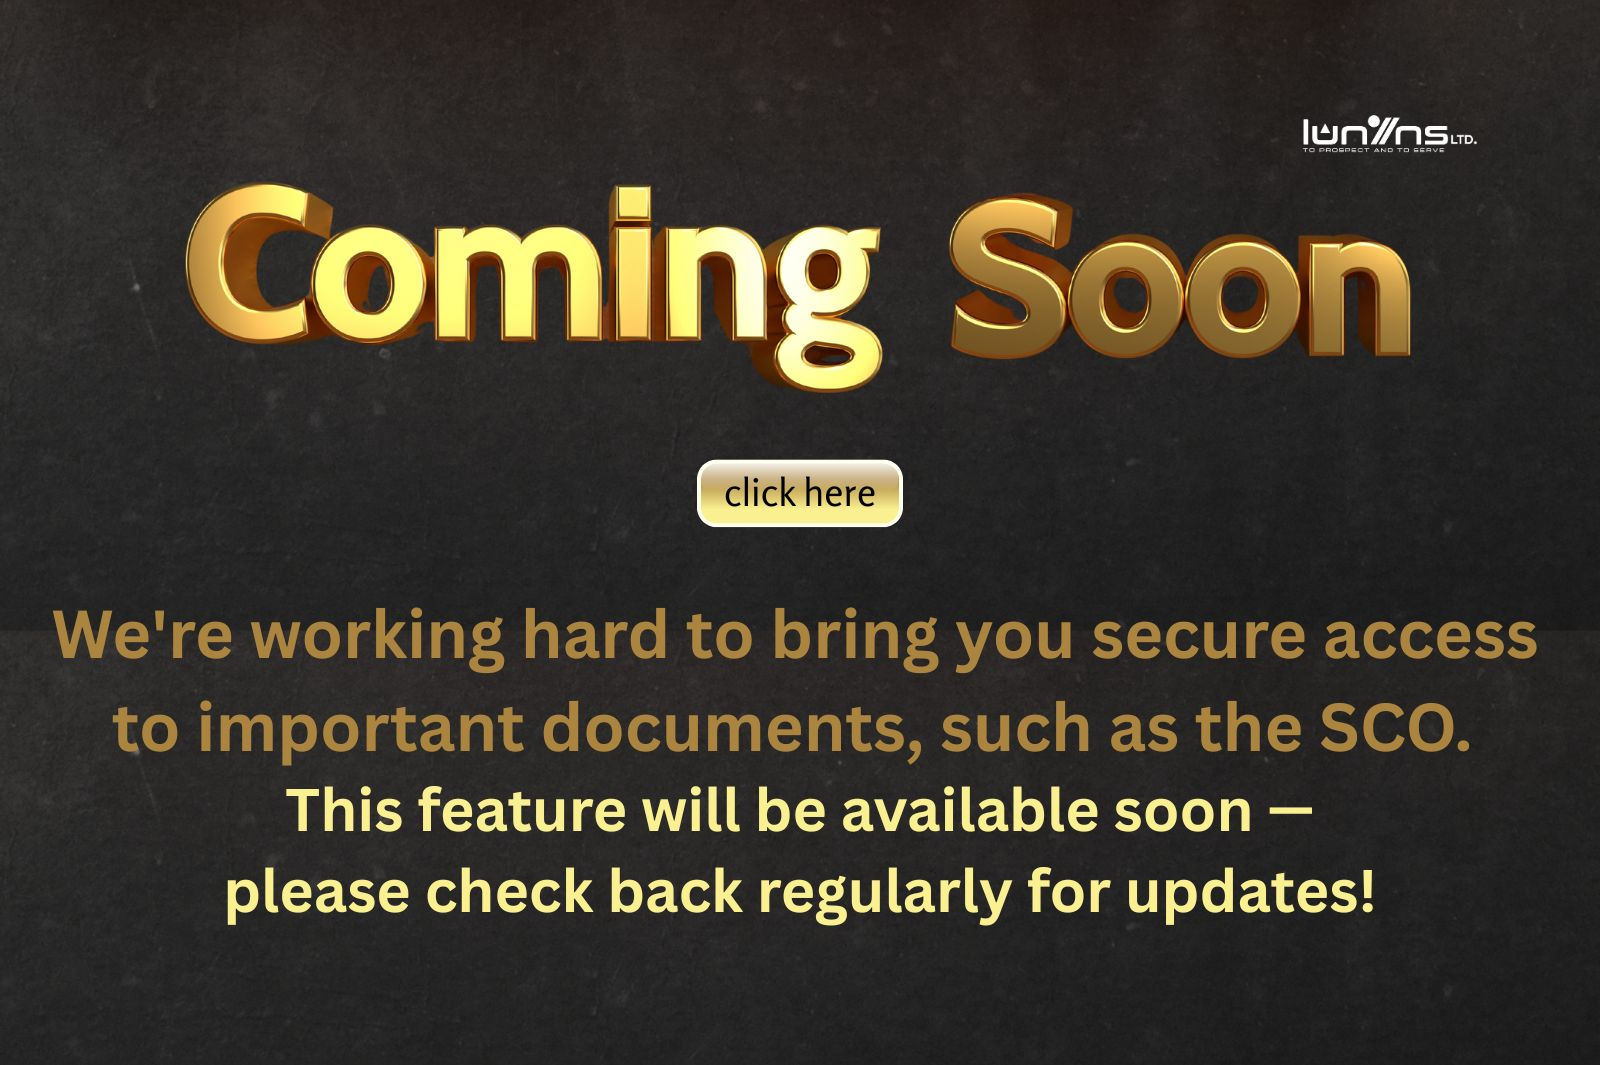
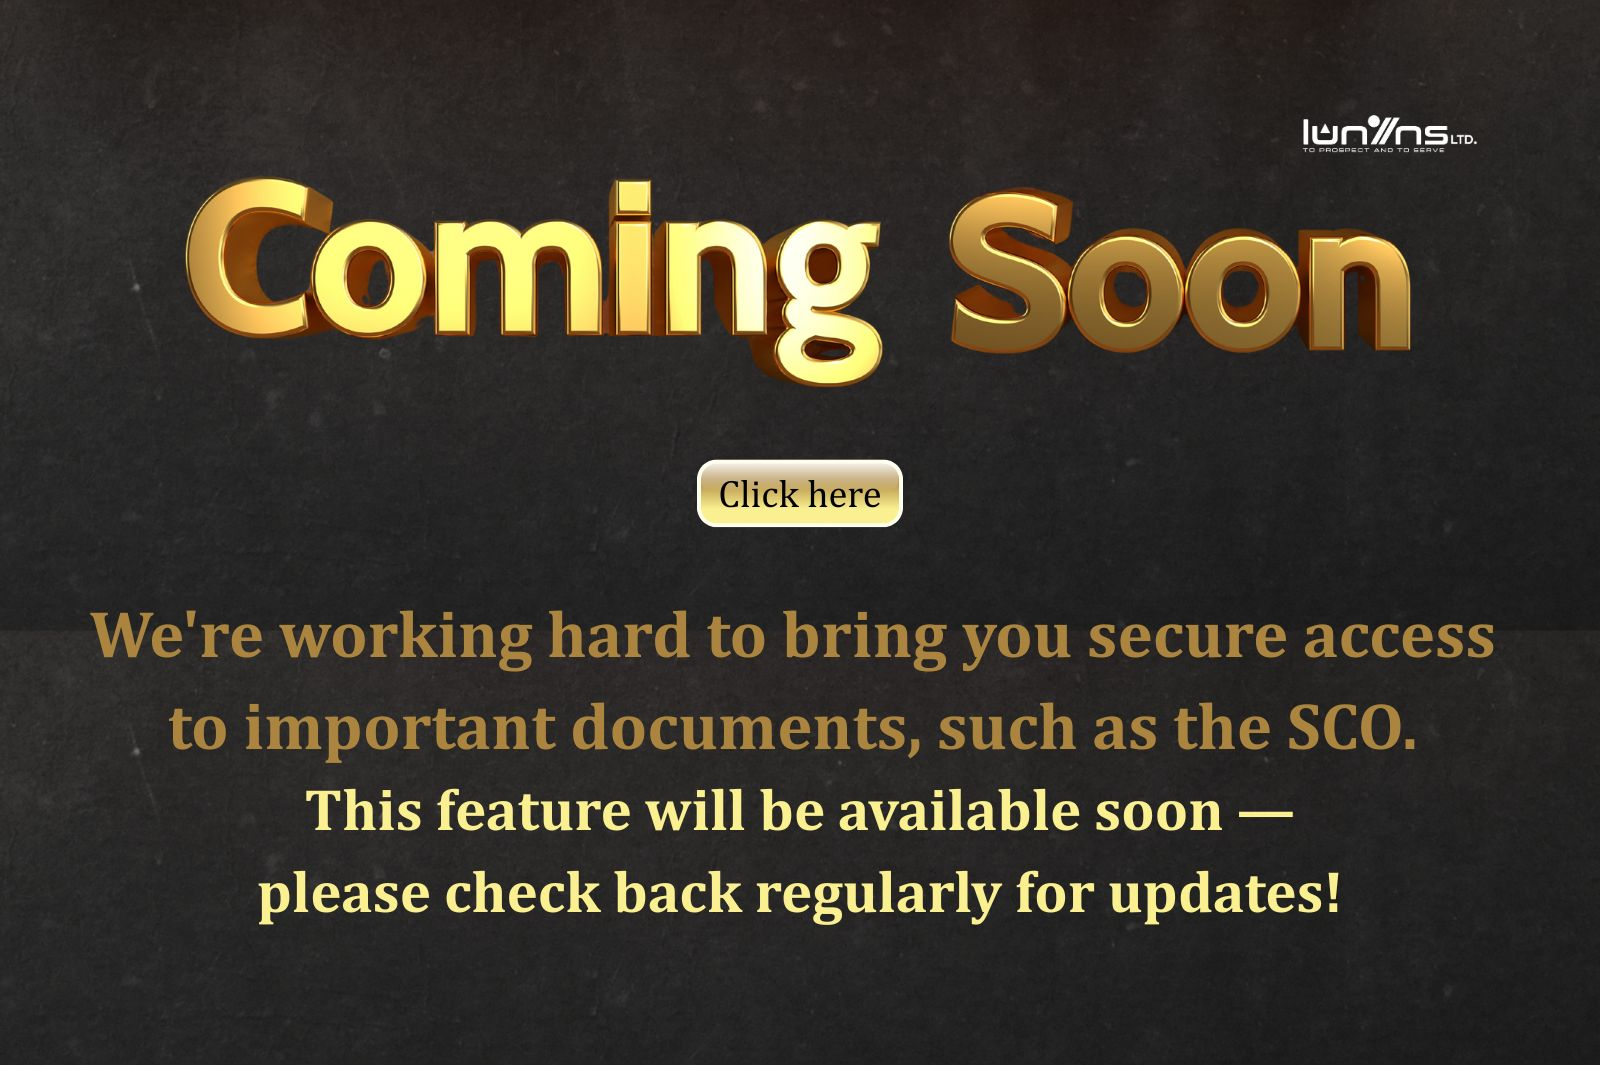
Update Cominsoon.css
Update message image and font-family

diff --git a/COM CSS/Master-CSS/Master-css.css b/COM CSS/Master-CSS/Master-css.css
@@ -2,7 +2,7 @@
 /*::::::::::::::::::::::::::::::::::::::::::::::::::::::::::::::::::::::::::::::::::::::::::::::::::*/
 
 body {
-  font-family: 'Segoe UI', sans-serif;
+  font-family: Cambria, Cochin, Georgia, Times, 'Times New Roman', serif;
   background-color: #f9f9f9;
   color: #333;
 }
